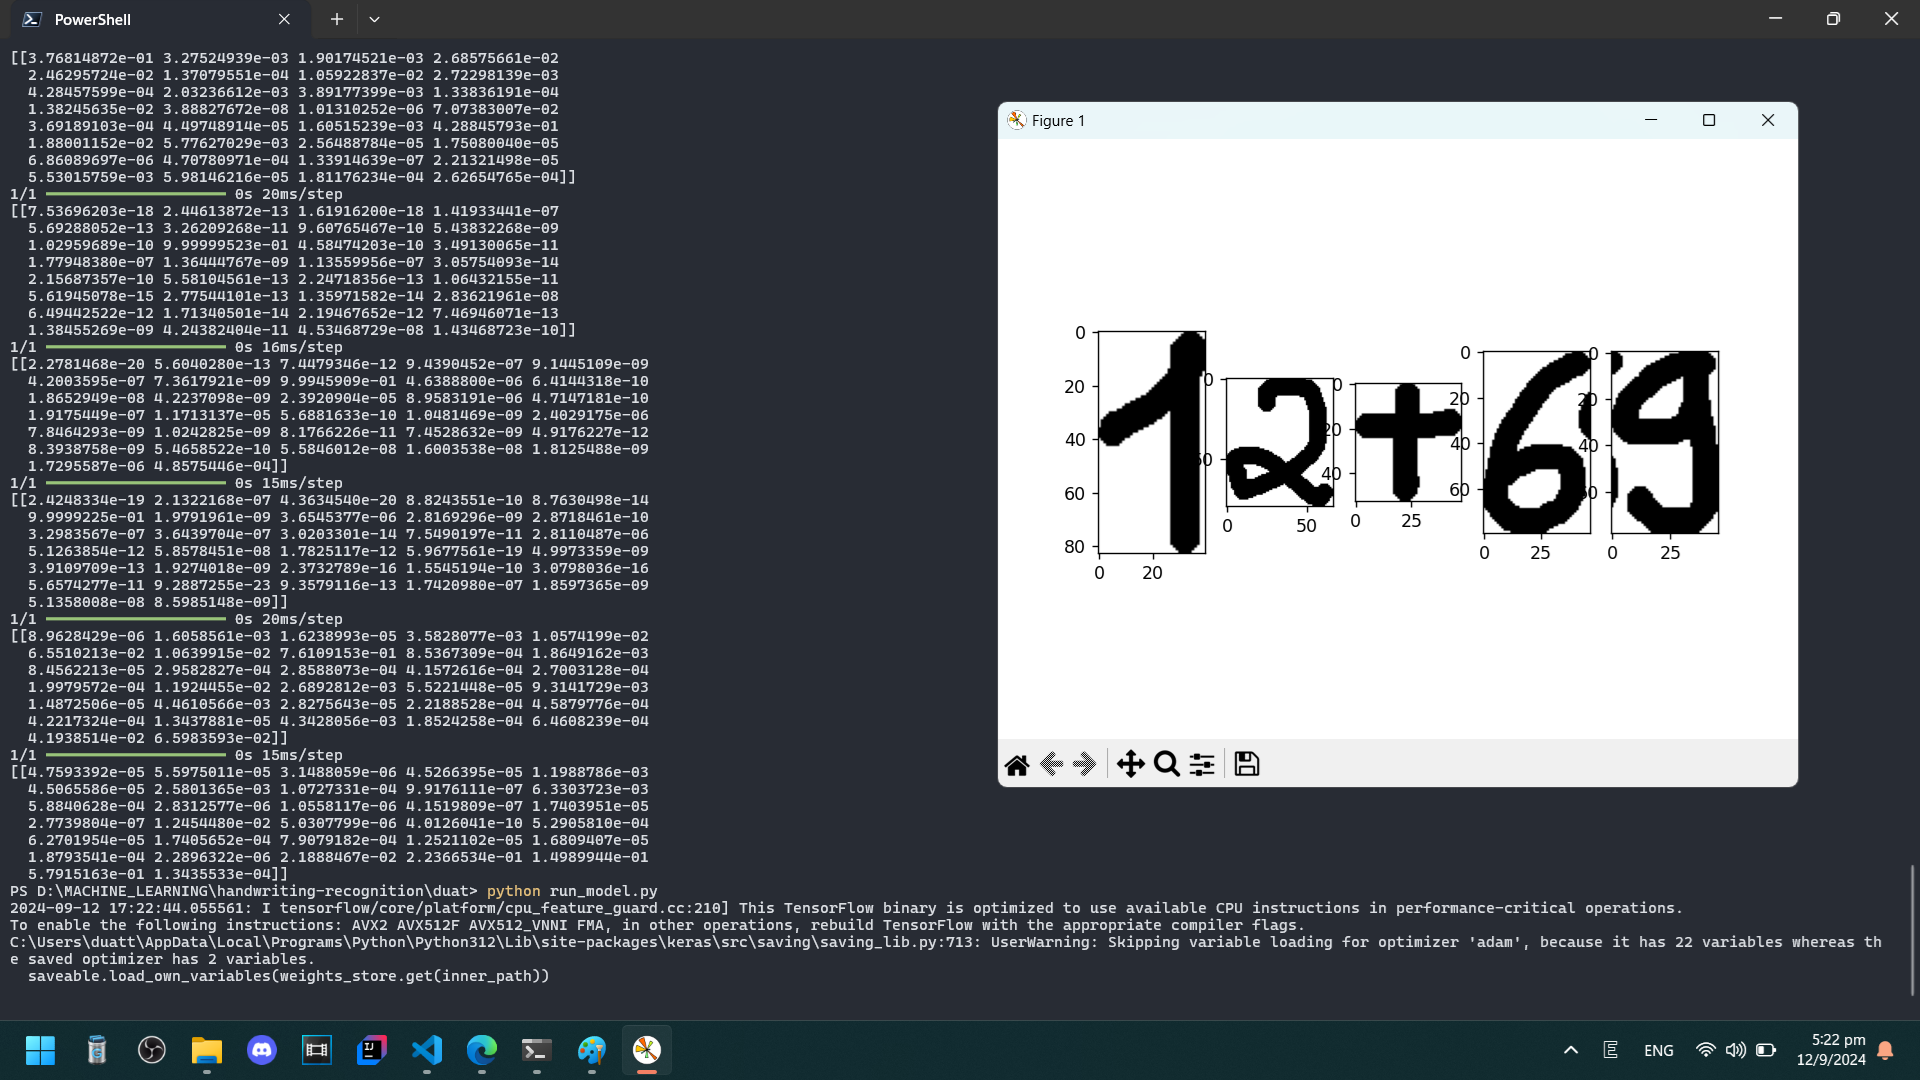
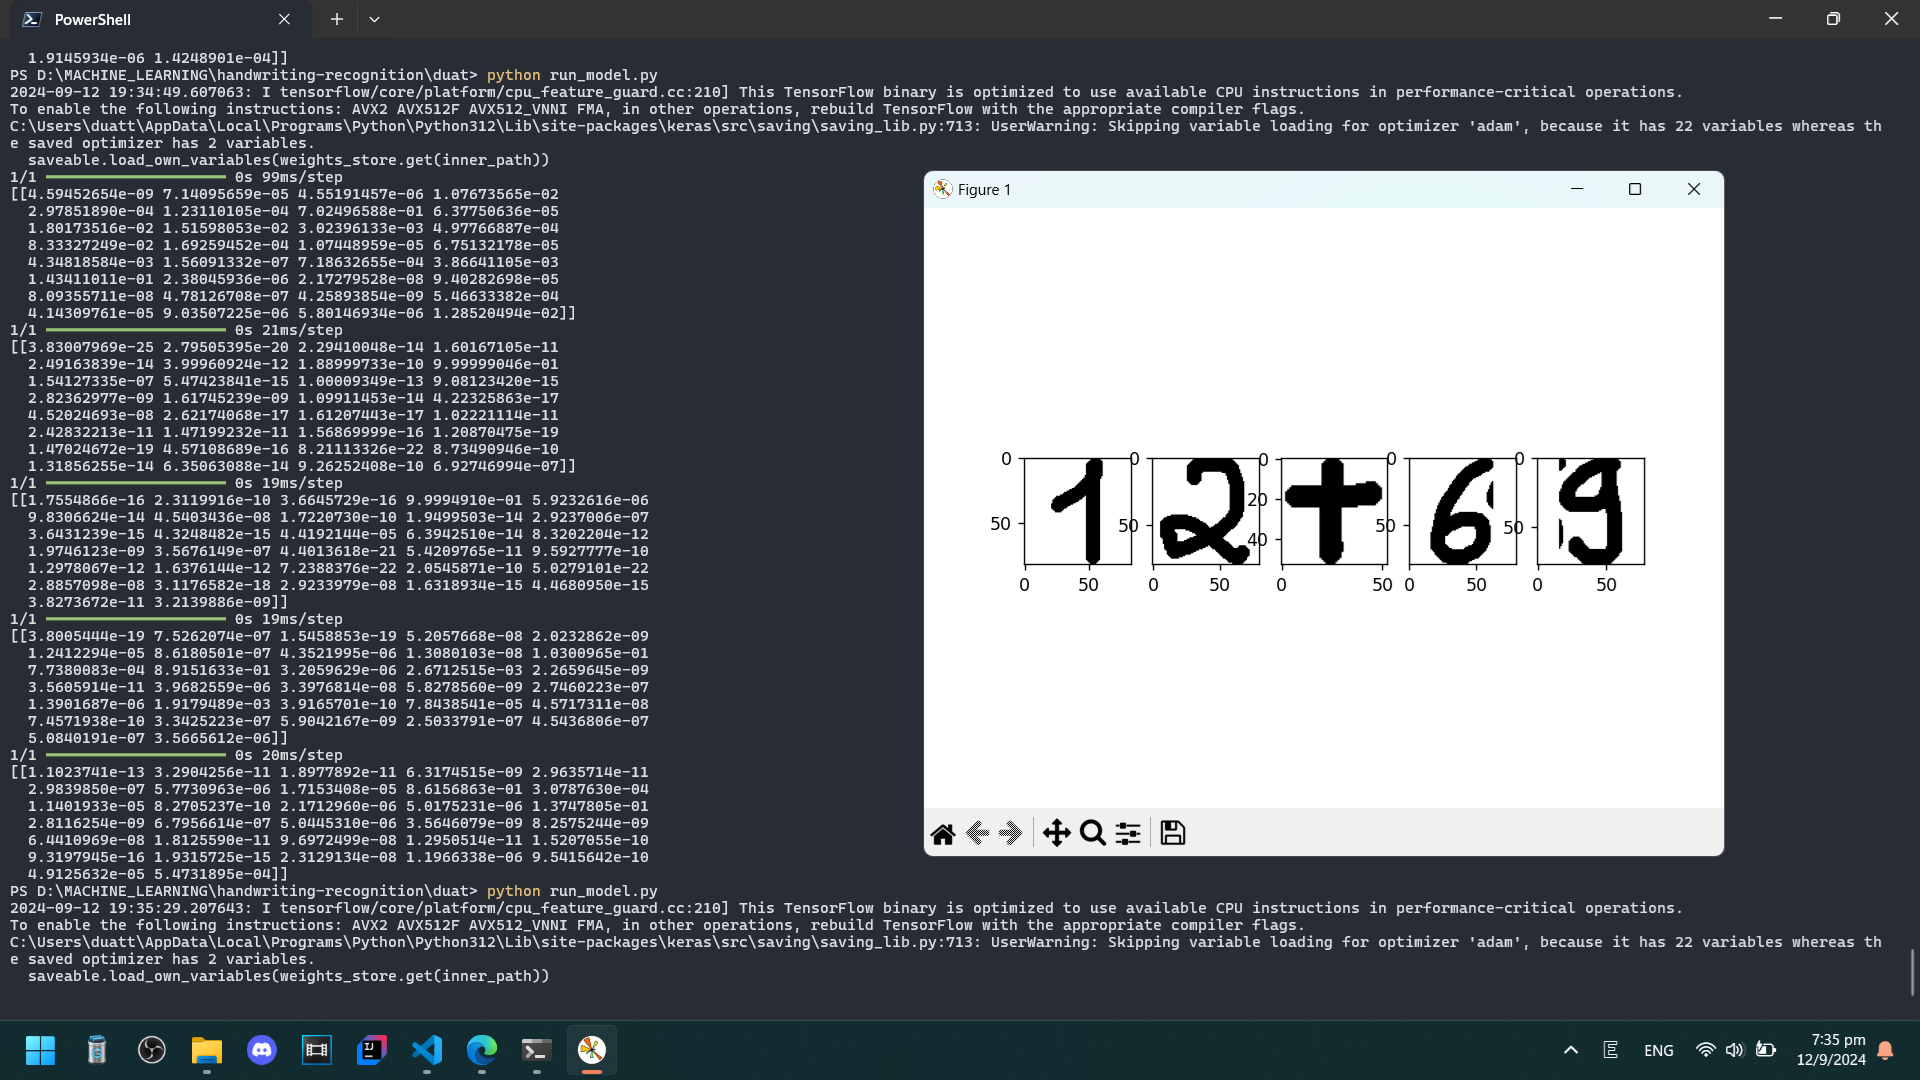
Turn cropped expression into square shape without changing aspect ratio to avoid wrong skeletonize after scaling

Changed region(s): [[0.0, 0.0306, 0.9688, 0.8556], [0.2812, 0.9472, 0.3438, 1.0]]

diff --git a/run_model.py b/run_model.py
@@ -2,7 +2,7 @@ import tensorflow as tf
 from tensorflow.keras.models import load_model
 import numpy as np
 import matplotlib.pyplot as plt
-from PIL import Image
+from PIL import Image, ImageFilter
 from skimage.morphology import thin
 from skimage.util import invert
 import cv2
@@ -46,7 +46,12 @@ def extract_expressions(image):
 
     for box in boundingBoxes:
         x,y,w,h = box
-        expressions.append(image[y:y+h, x:x+w])
+        cropped_expression = image[y:y+h, x:x+w]
+        # Padding the cropped image to make it square
+        max_dim = max(w, h)
+        expression = np.ones((max_dim, max_dim, 3), np.uint8) * 255 # create white bg with size max_dim
+        expression[(max_dim-h)//2:(max_dim-h)//2+h, (max_dim-w)//2:(max_dim-w)//2+w] = cropped_expression # Put the cropped image in the center of the white bg
+        expressions.append(expression)
 
     show_images(expressions)
     return expressions
